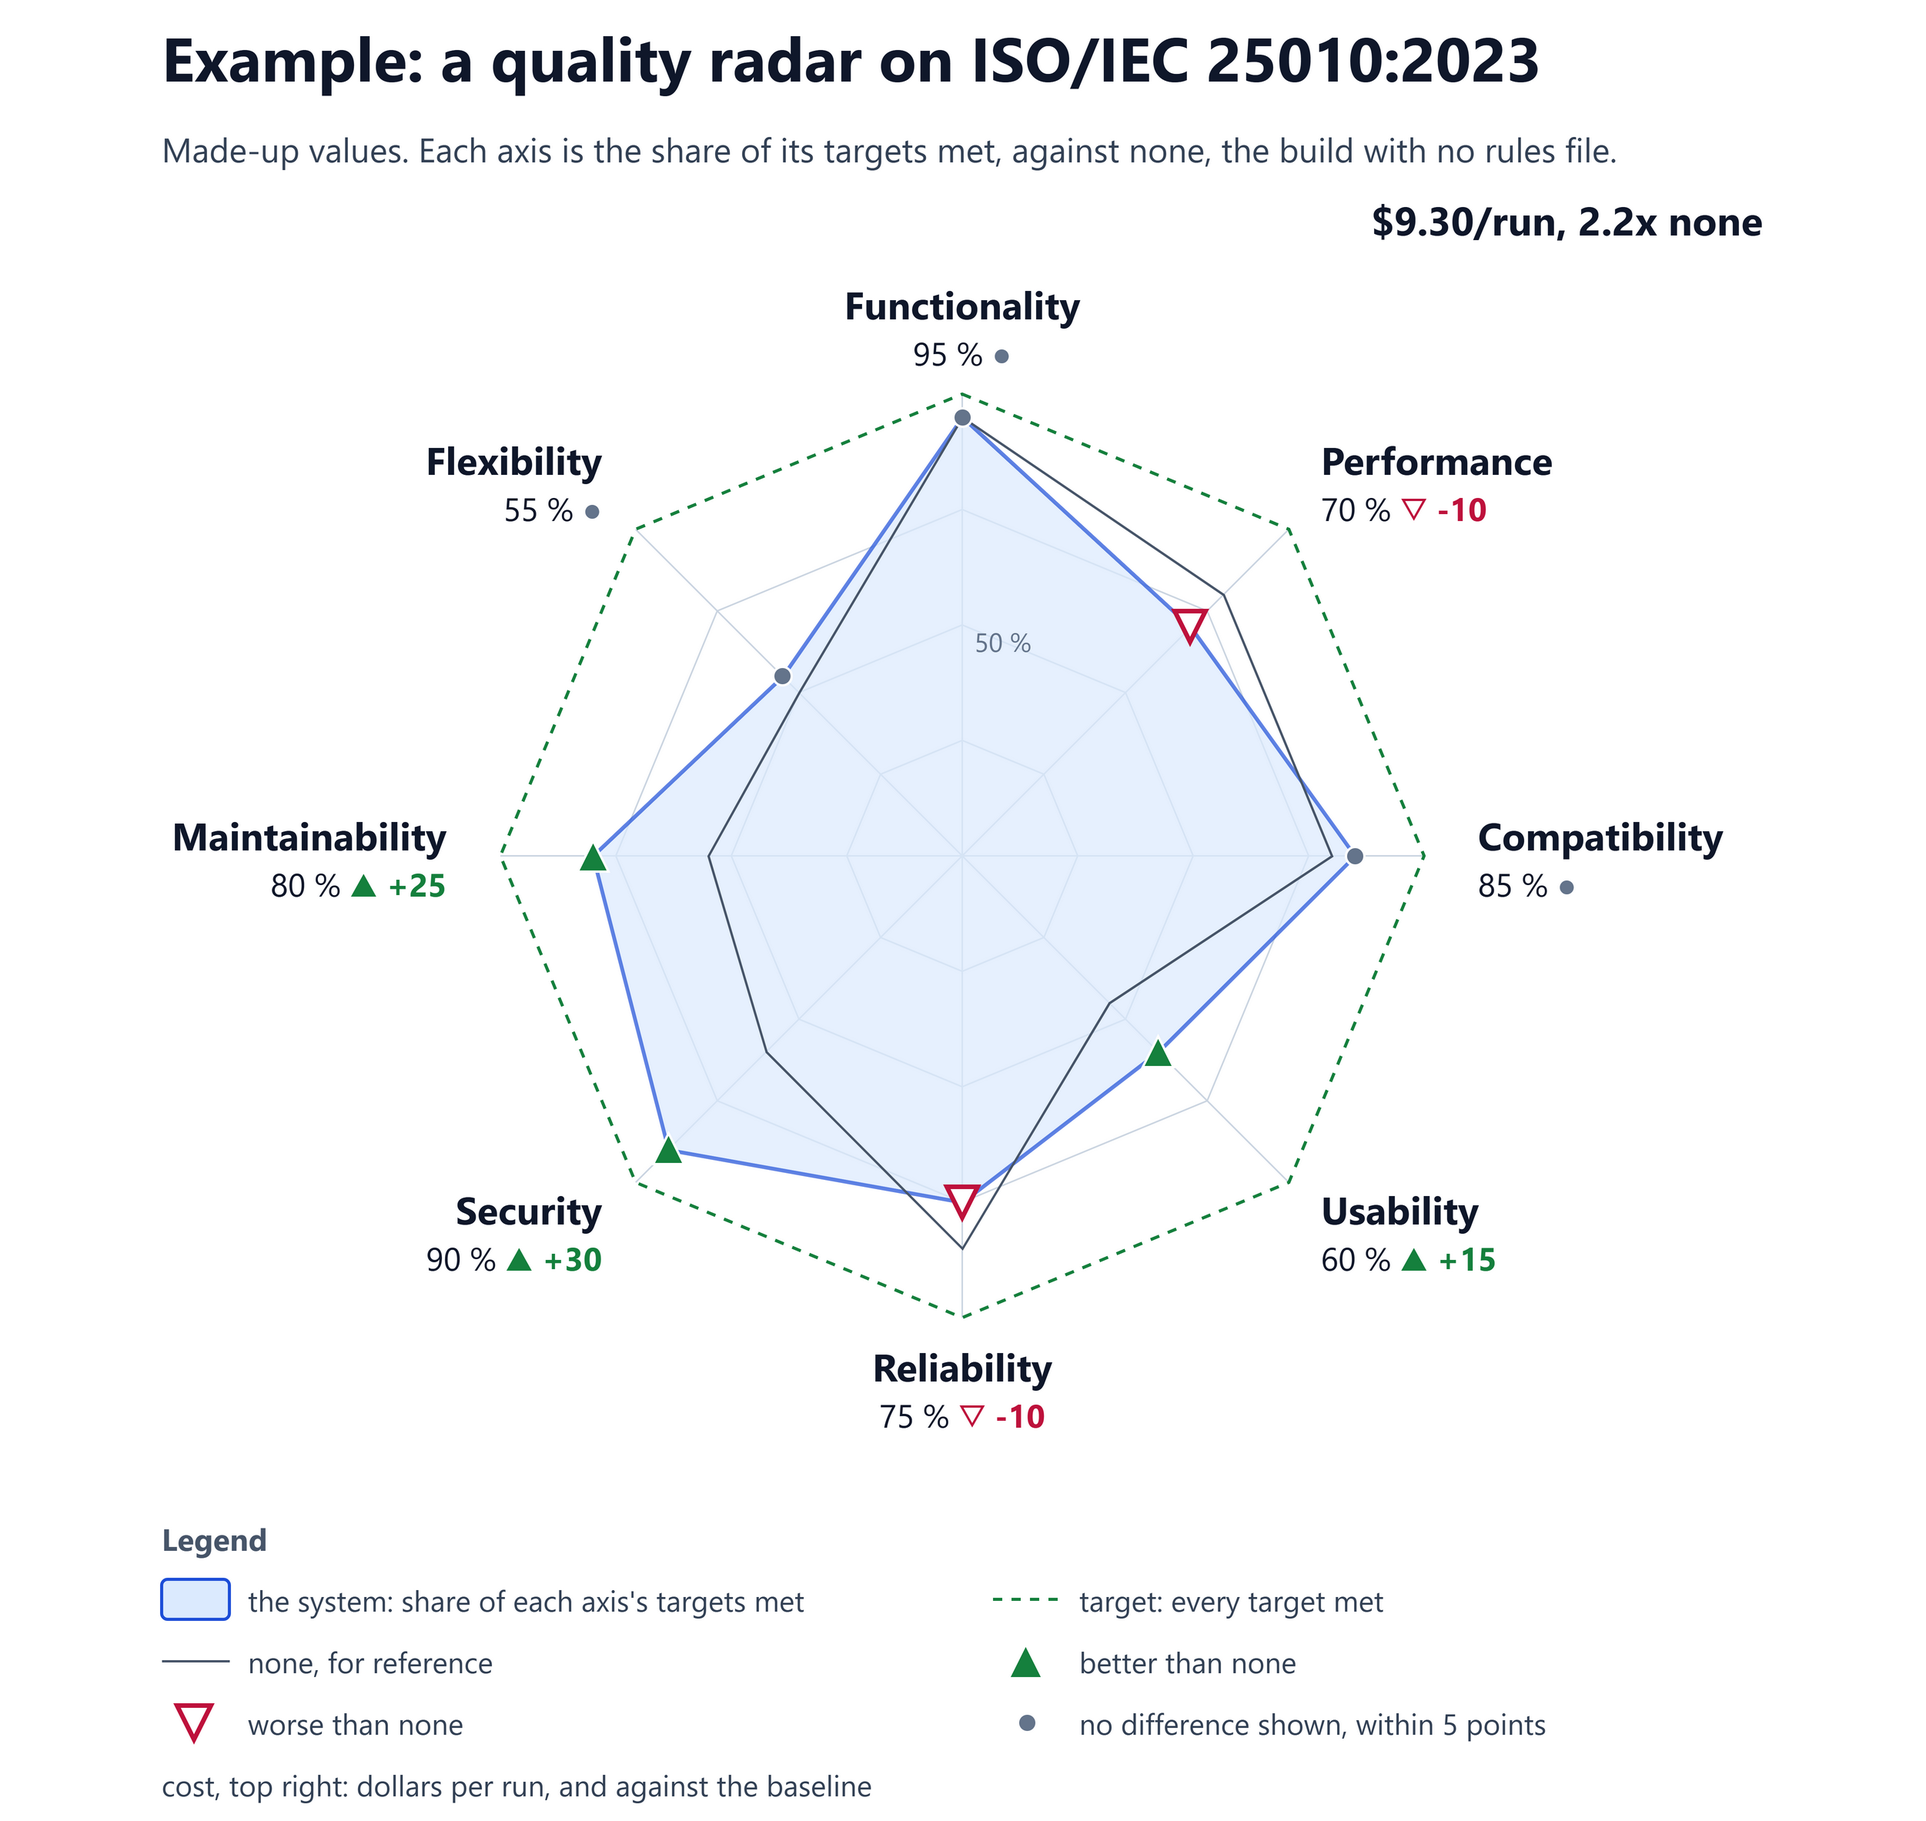
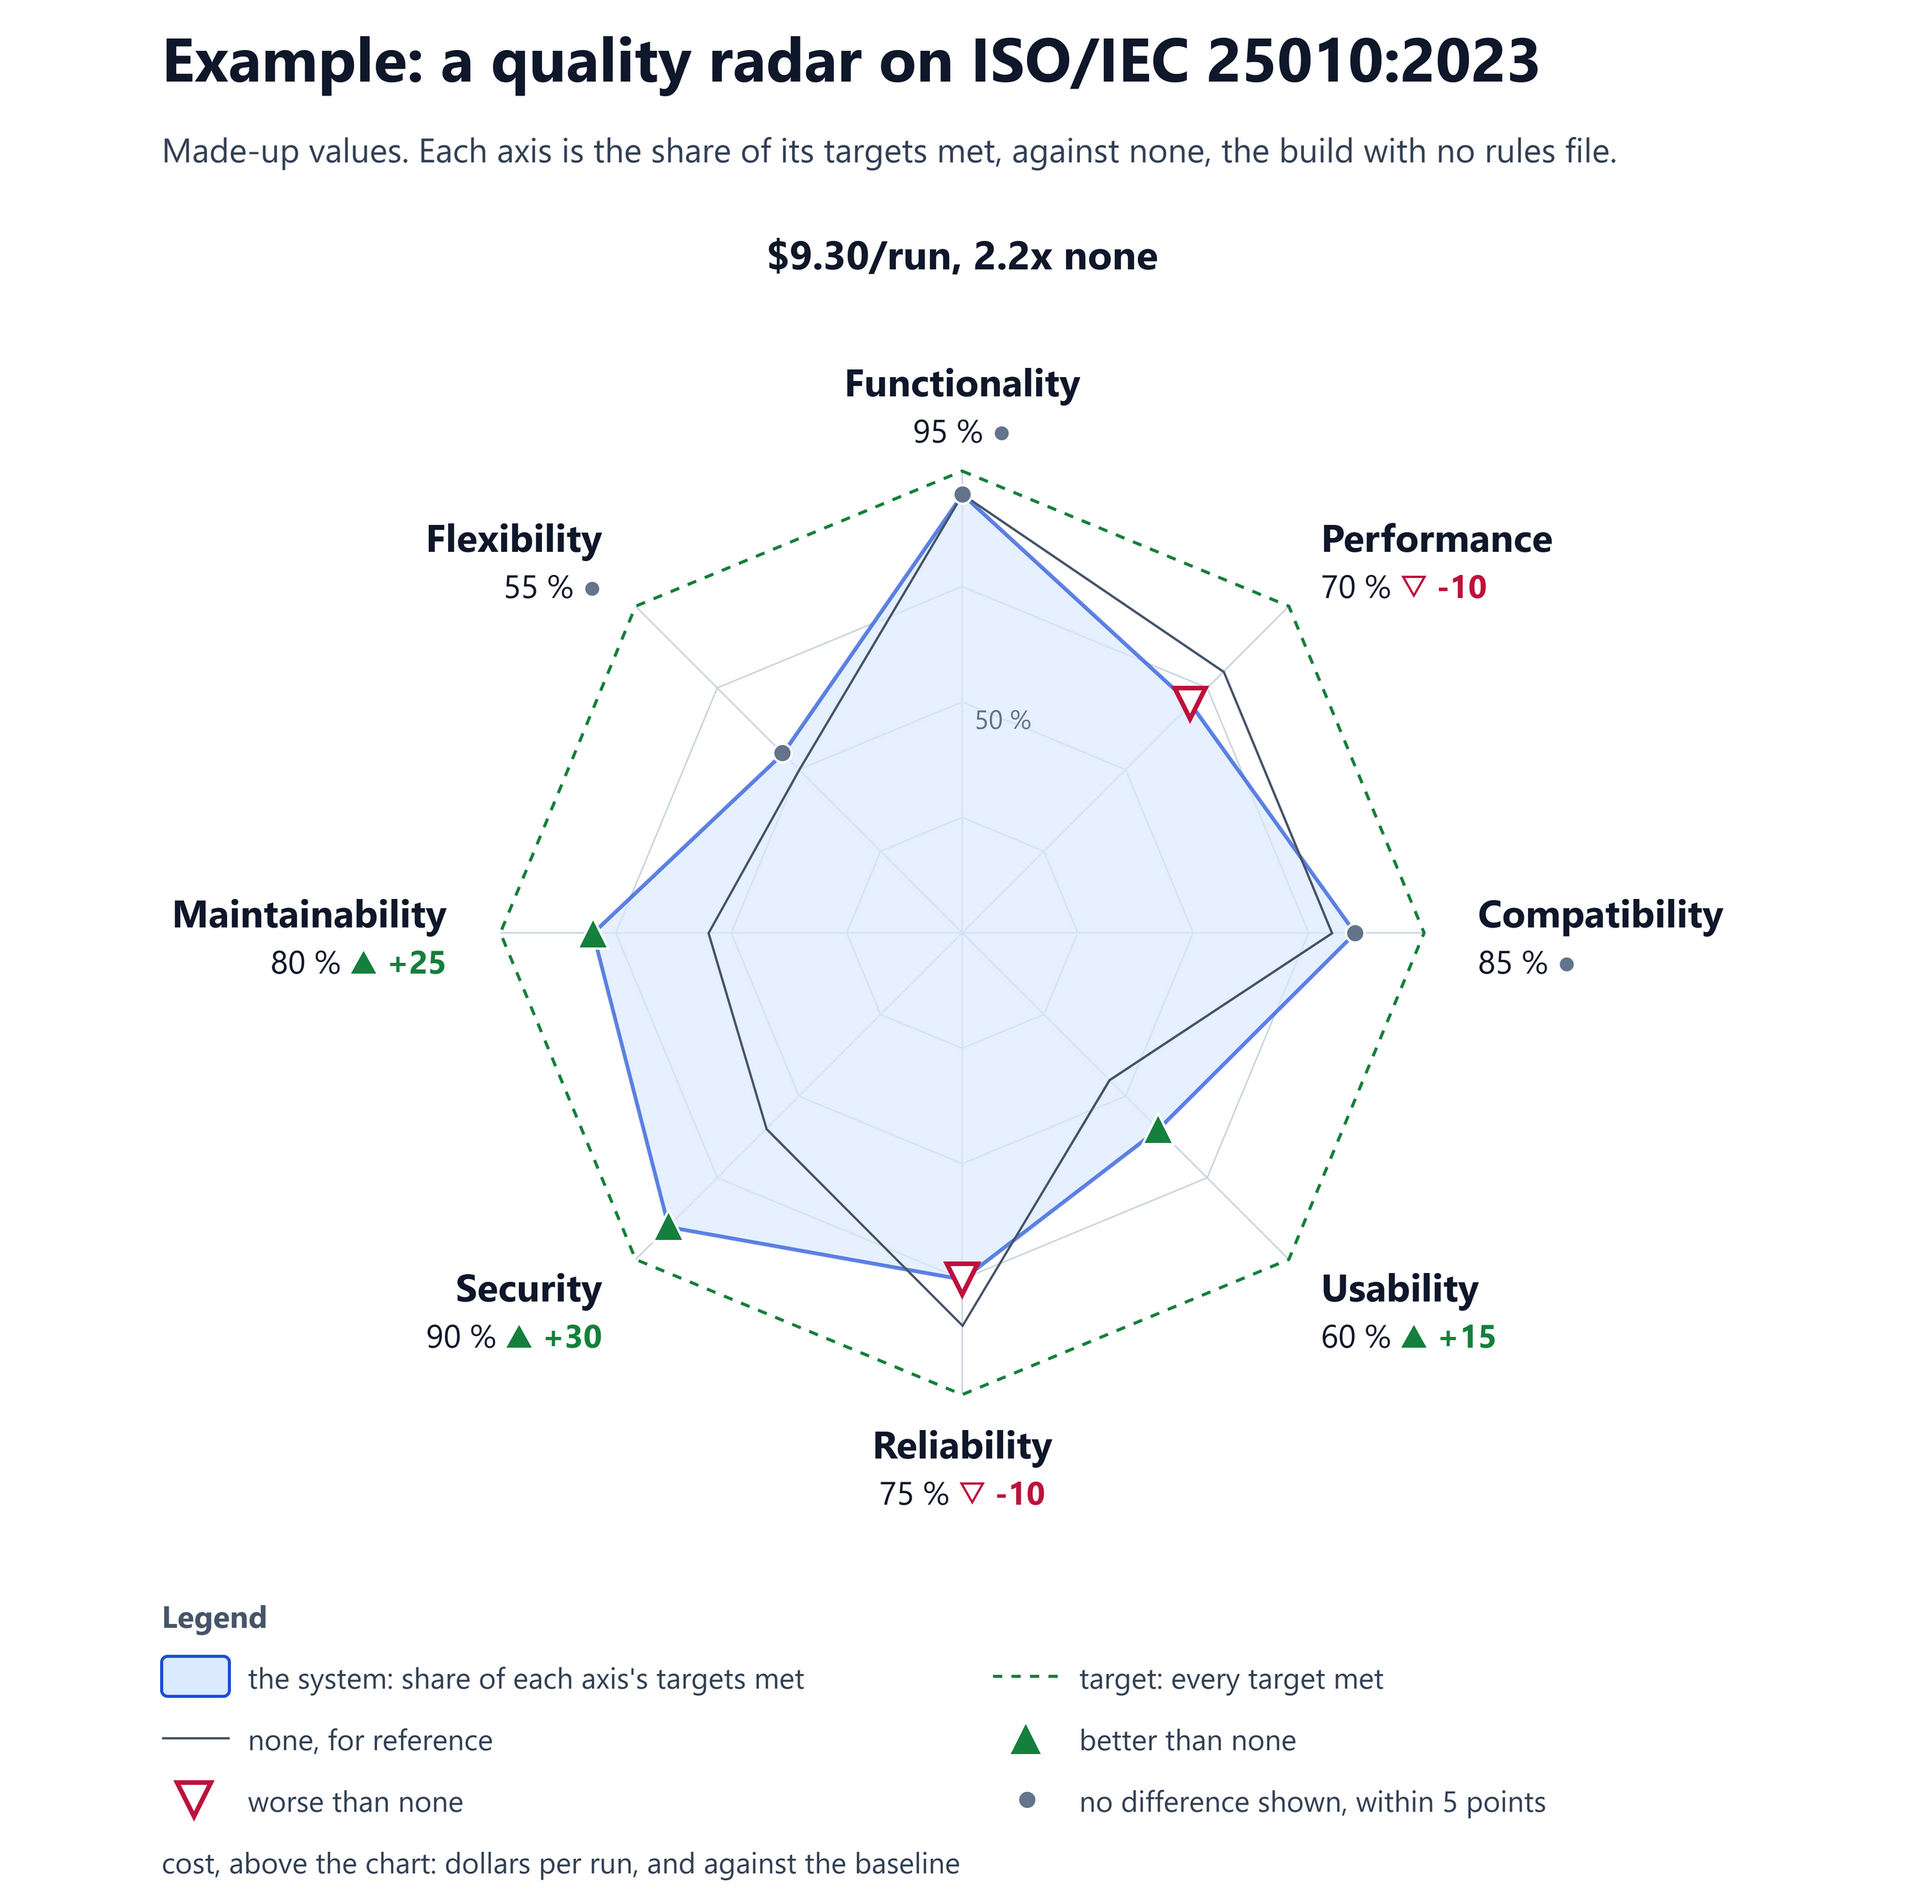
docs(spikes): centre the cost above the example radar
Claude-Session: https://claude.ai/code/session_01DpT5xPFWEQr1bipxbbKBRF

diff --git a/docs/spikes/iso-radar.md b/docs/spikes/iso-radar.md
@@ -36,16 +36,16 @@ characteristic, is left out: it does not apply to this backend.
 Lean: the eight axes, the target ring, the system's shape, `none`'s outline
 for reference, and one figure.
 
-![An example radar with made-up values. Eight axes in ISO order, each scored as the share of its targets met: Functionality 95 %, Performance 70 %, Compatibility 85 %, Usability 60 %, Reliability 75 %, Security 90 %, Maintainability 80 % and Flexibility 55 %. A dashed green ring marks every target met, and a thin grey outline shows none, the build with no rules file. Each axis carries a filled triangle where it is better than none, a hollow downward triangle where it is worse, and a grey dot where no difference is shown; Security reads 90 % up 30, Reliability 75 % down 10. The top right corner reads $9.30/run, 2.2x none](../diagrams/iso-radar-example.png)
+![An example radar with made-up values. Eight axes in ISO order, each scored as the share of its targets met: Functionality 95 %, Performance 70 %, Compatibility 85 %, Usability 60 %, Reliability 75 %, Security 90 %, Maintainability 80 % and Flexibility 55 %. A dashed green ring marks every target met, and a thin grey outline shows none, the build with no rules file. Each axis carries a filled triangle where it is better than none, a hollow downward triangle where it is worse, and a grey dot where no difference is shown; Security reads 90 % up 30, Reliability 75 % down 10. Centred above the chart, the cost reads $9.30/run, 2.2x none](../diagrams/iso-radar-example.png)
 
-- **Cost** sits in the top right corner of each panel, as dollars per run and
-  as a multiple of the baseline: `$9.30/run, 2.2x none`. It is shown, not
+- **Cost** sits centred above each panel, over Functionality, as dollars per
+  run and as a multiple of the baseline: `$9.30/run, 2.2x none`. It is shown, not
   scored: it is not an axis.
 - **No verdict on the chart.** The verdict word that panels carried before is
   dropped; the report's text gives it.
 - **The target ring** marks where each axis meets its targets.
 - **`none`** is drawn as a thin grey outline with no fill, the reference the
-  cost corner is measured against too.
+  cost is measured against too.
 
 How to read better, worse and lacking:
 
